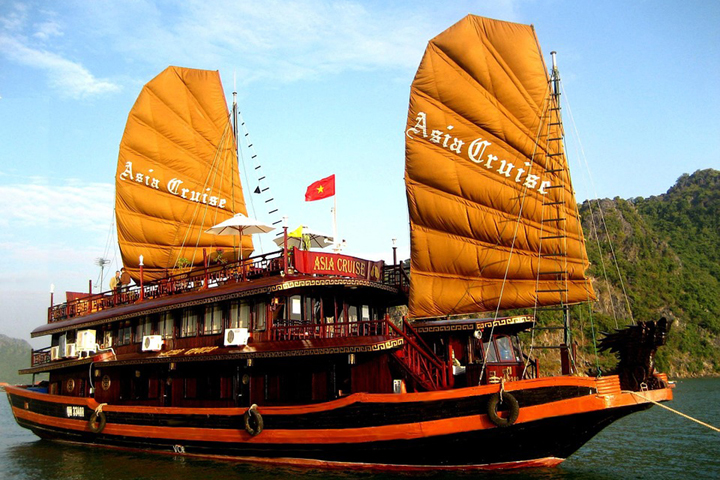
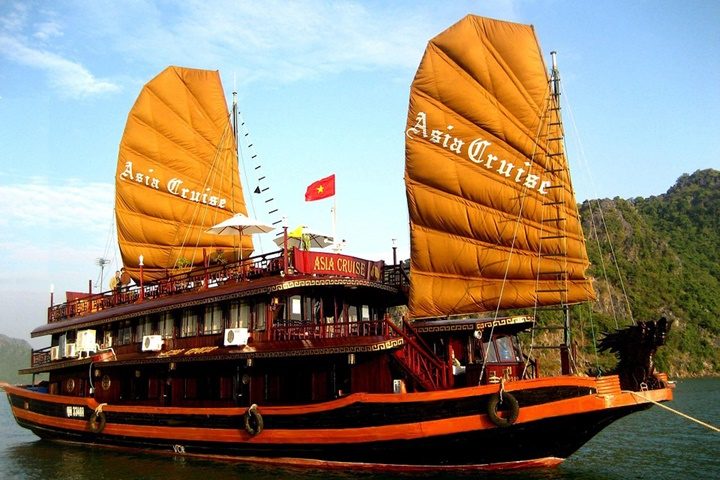
update Vietnam Travels images

diff --git a/4-projects/Vietnam_Travels/vietnam-travels-tours.html b/4-projects/Vietnam_Travels/vietnam-travels-tours.html
@@ -106,7 +106,7 @@
                                 </div>
                             </div>
                             <div class="carousel-item">
-                                <img class="d-block w-100" src="resources/img/Hanoi4.jpg" alt="Fifth slide">
+                                <img class="d-block w-100" src="resources/img/hanoi4.jpg" alt="Fifth slide">
                                 <div class="carousel-caption d-none d-md-block">
                                     <h3>Water Puppet Show</h3>
                                 </div>
@@ -347,19 +347,19 @@
                                 </div>
                             </div>
                             <div class="carousel-item">
-                                <img class="d-block w-100" src="resources/img/Halongbay3.jpg" alt="Third slide">
+                                <img class="d-block w-100" src="resources/img/halongbay3.jpg" alt="Third slide">
                                 <div class="carousel-caption d-none d-md-block">
                                     <h3>Cruise Ship</h3>
                                 </div>
                             </div>
                             <div class="carousel-item">
-                                <img class="d-block w-100" src="resources/img/Halongbay4.jpg" alt="Fourth slide">
+                                <img class="d-block w-100" src="resources/img/halongbay4.jpg" alt="Fourth slide">
                                 <div class="carousel-caption d-none d-md-block">
                                     <h3>Cruise Ship</h3>
                                 </div>
                             </div>
                             <div class="carousel-item">
-                                <img class="d-block w-100" src="resources/img/Halongbay5.jpg" alt="Fifth slide">
+                                <img class="d-block w-100" src="resources/img/halongbay5.jpg" alt="Fifth slide">
                                 <div class="carousel-caption d-none d-md-block">
                                     <h3>Cruise Ship</h3>
                                 </div>
